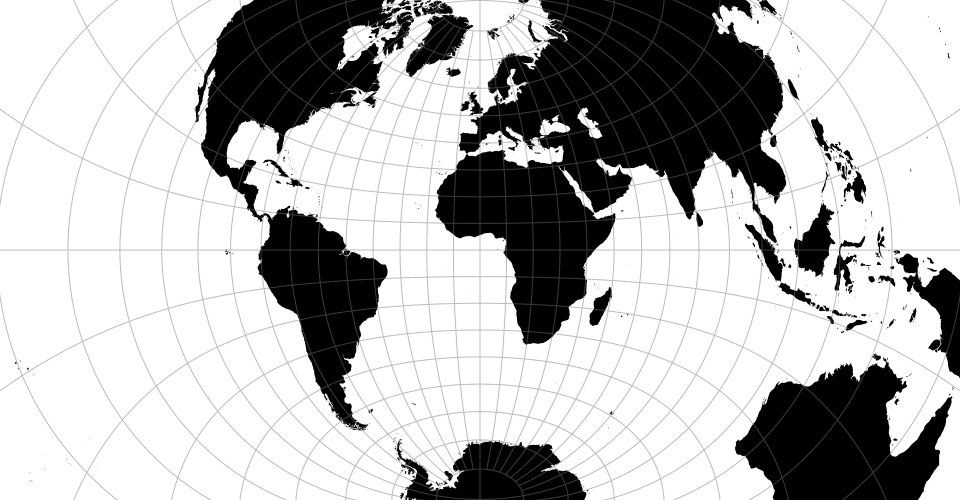
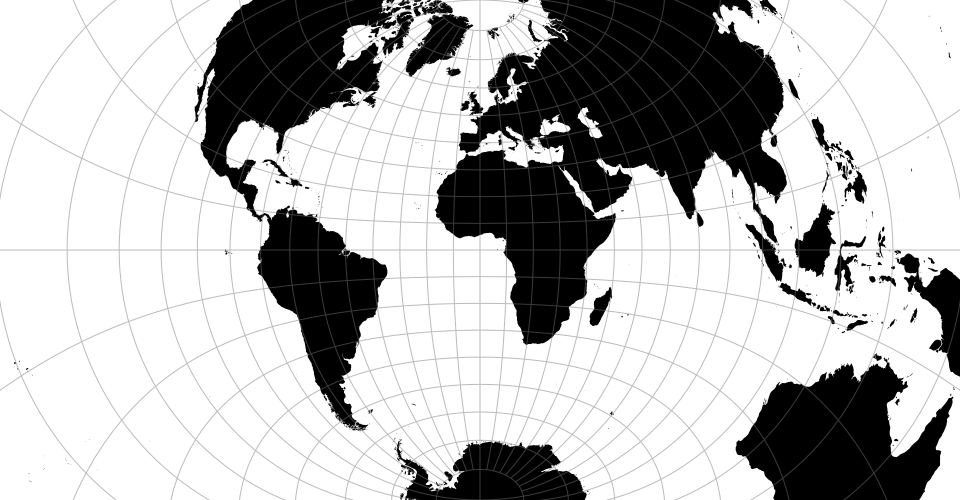
Don’t save 1px for unbounded projections.

diff --git a/src/airy.js b/src/airy.js
@@ -44,6 +44,6 @@ export default function() {
   };
 
   return p
-      .scale(179.976)
+      .scale(180.337)
       .clipAngle(147);
 }
